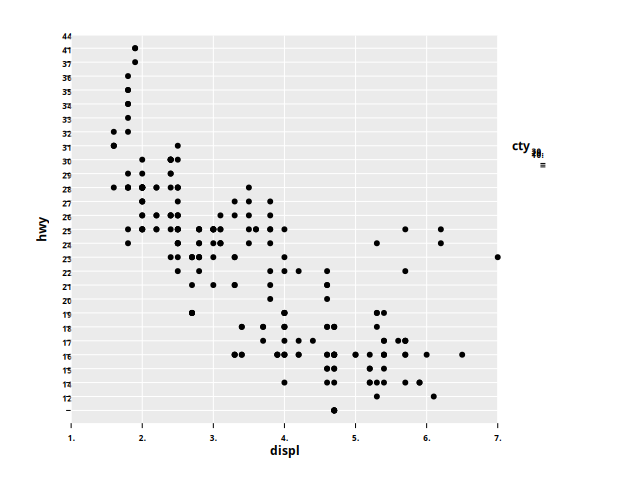
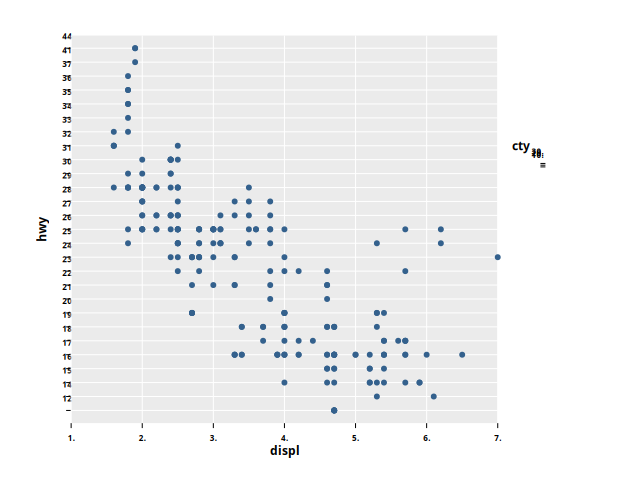
fix int to color

diff --git a/src/python_ggplot/core/chroma.py b/src/python_ggplot/core/chroma.py
@@ -207,13 +207,13 @@ def color_from_hsl(h: float, s: float, l: float) -> RGBADict:
     return {"r": r, "g": g, "b": b, "a": a}
 
 
-def to_rgba(c: int) -> tuple[int, int, int, int]:
+def to_rgba(c: int) -> tuple[int, int, int, float]:
     # todo decide what stays in color maps and what goes in chroma
-    return (
-        (c >> 16) & 0xFF,  # red
+    return  (
+        (c >> 16)  & 0xFF,  # red
         (c >> 8) & 0xFF,  # green
         c & 0xFF,  # blue
-        (c >> 24) & 0xFF,  # alpha
+        ((c >> 24)  & 0xFF) / 255,  # alpha
     )
 
 

diff --git a/src/python_ggplot/core/objects.py b/src/python_ggplot/core/objects.py
@@ -180,14 +180,14 @@ class ColorRGBA:
     r: int
     g: int
     b: int
-    a: int = 1
+    a: float = 1
 
     def to_color(self):
         return Color(
-            r=int(self.r / 255),
-            b=int(self.b / 255),
-            g=int(self.g / 255),
-            a=int(self.a),
+            r=self.r / 255,
+            b=self.b / 255,
+            g=self.g / 255,
+            a=self.a,
         )
 
     def __eq__(self, o: Any) -> bool:
